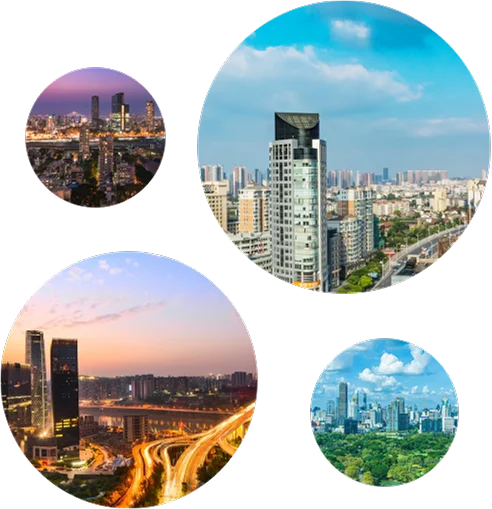
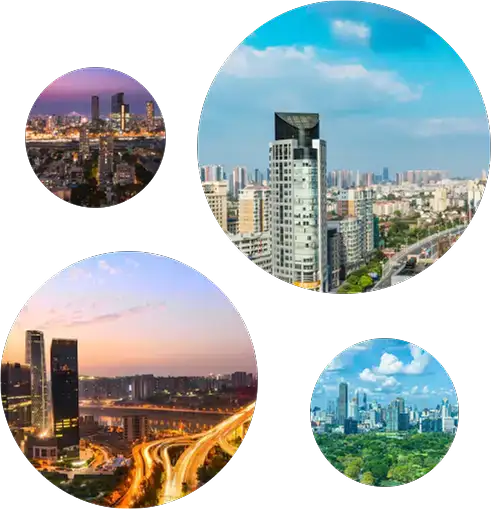
Fixed minor performance issues

diff --git a/hc-frontend/src/app/layout.tsx b/hc-frontend/src/app/layout.tsx
@@ -83,6 +83,20 @@ export default function RootLayout({
           fetchPriority="high"
         />
 
+        <link
+          rel="preload"
+          as="image"
+          href="https://cdn.houseclay.com/public/images/banner-background.webp"
+          imageSrcSet="
+          https://cdn.houseclay.com/public/images/banner-background-640w.webp 640w,
+          https://cdn.houseclay.com/public/images/banner-background-768w.webp 768w,
+          https://cdn.houseclay.com/public/images/banner-background-1024w.webp 1024w,
+          https://cdn.houseclay.com/public/images/banner-background-1280w.webp 1280w,
+          https://cdn.houseclay.com/public/images/banner-background-2560w.webp 2560w"
+          imageSizes="(max-width: 768px) 100vw, (max-width: 1280px) 100vw, 1280px"
+          fetchPriority="high"
+        />
+
         {/* Critical meta tags - must come before splash screens */}
         <meta name="mobile-web-app-capable" content="yes" />
         <meta name="apple-mobile-web-app-capable" content="yes" />

diff --git a/hc-frontend/src/components/MastheadMobile.tsx b/hc-frontend/src/components/MastheadMobile.tsx
@@ -1,9 +1,9 @@
 import Link from "next/link";
 import { useRouter, useSearchParams } from "next/navigation";
-// import bannerBackgroundMobile from "public/images/banner-background-mobile.webp";
 import { useDispatch, useSelector } from "react-redux";
 
-import { BENGALURU_LOCATION, CDN_BASE_URL } from "@/common/constants";
+import { bannerPeopleMobileImageURL } from "@/common/cdnURLs";
+import { BENGALURU_LOCATION } from "@/common/constants";
 import { PropertyCategory } from "@/common/enums";
 import { generateUUID } from "@/common/utils";
 import { FindFlatmatesDialog } from "@/dialogs";
@@ -19,9 +19,6 @@ import { SvgIcon } from "@/utility-components";
 import HomeSearchBar from "./HomeSearchBar";
 
 const FIND_FLATMATES_DIALOG_ID = "find-flatmates-dialog";
-
-const bannerPeopleMobileURL =
-  CDN_BASE_URL + "/public/images/banner-people-mobile.webp";
 
 const MastHeadMobile: React.FC = () => {
   const dispatch = useDispatch();
@@ -180,8 +177,8 @@ const MastHeadMobile: React.FC = () => {
         <div className="rounded-2xl p-5 relative overflow-hidden w-full">
           <div className="absolute inset-0 pointer-events-none">
             <img
-              src={bannerPeopleMobileURL}
-              alt="Banner People"
+              src={bannerPeopleMobileImageURL}
+              alt="Houseclay Banner People"
               fetchPriority="high"
               decoding="async"
               style={{

diff --git a/hc-frontend/src/components/MastheadDesktop.tsx b/hc-frontend/src/components/MastheadDesktop.tsx
@@ -23,7 +23,7 @@ const MastHeadDesktop = () => {
           https://cdn.houseclay.com/public/images/banner-background-1280w.webp 1280w,
           https://cdn.houseclay.com/public/images/banner-background-2560w.webp 2560w"
           sizes="(max-width: 768px) 100vw, (max-width: 1280px) 100vw, 1280px"
-          alt=""
+          alt="Houseclay Banner Background"
           fetchPriority="high"
           decoding="async"
           className="w-full h-full object-cover"

diff --git a/hc-frontend/src/common/cdnURLs.ts b/hc-frontend/src/common/cdnURLs.ts
@@ -16,6 +16,7 @@ export const loginImageURL = `${CDN_BASE_URL}/public/images/login.webp`;
 export const ownersImageURL = `${CDN_BASE_URL}/public/images/owners.webp`;
 export const bannerAboutUsImageURL = `${CDN_BASE_URL}/public/images/banner-about-us.webp`;
 export const testimonialImageURL = `${CDN_BASE_URL}/public/images/testimonial.webp`;
+export const bannerPeopleMobileImageURL = `${CDN_BASE_URL}/public/images/banner-people-mobile.webp`;
 
 export const directOwnerAccessImageURL = `${CDN_BASE_URL}/public/optimizedIcons/medium/direct-owner-access.svg`;
 export const payAsYouGoImageURL = `${CDN_BASE_URL}/public/optimizedIcons/large/pay-as-you-go.svg`;